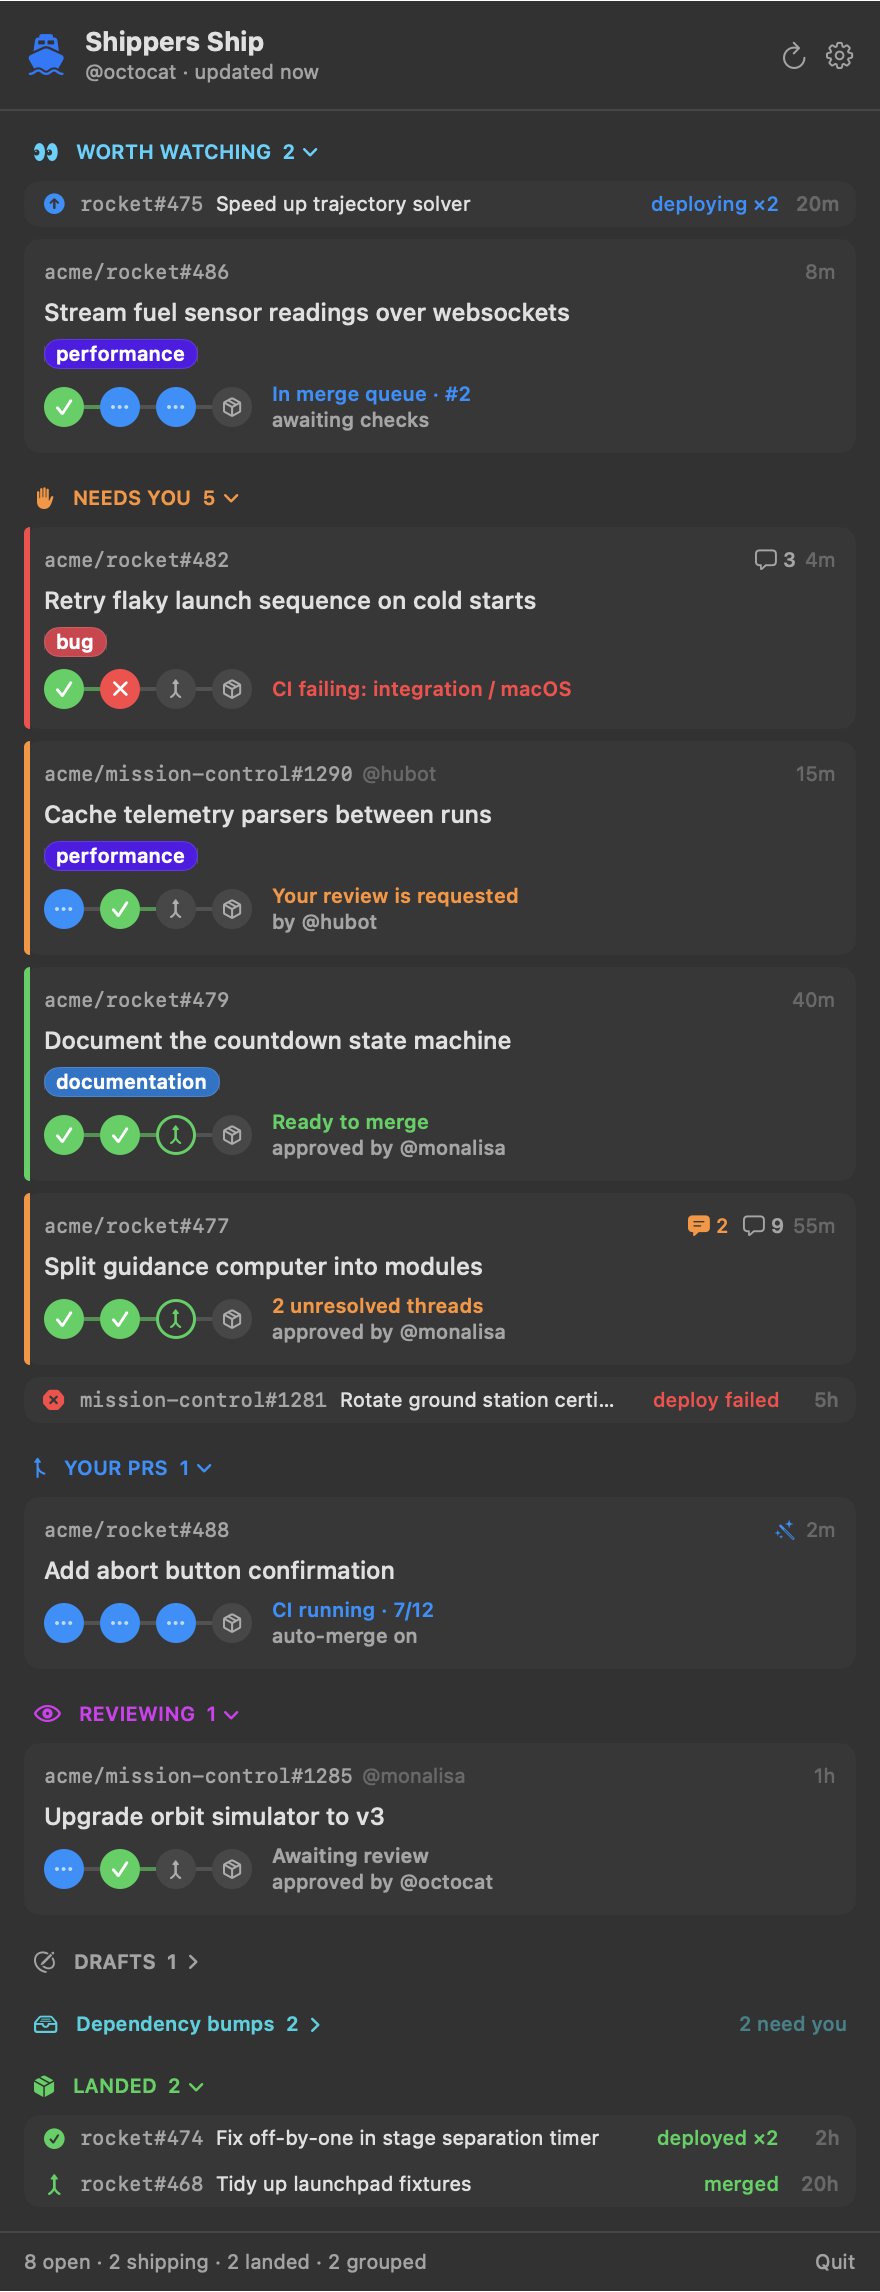
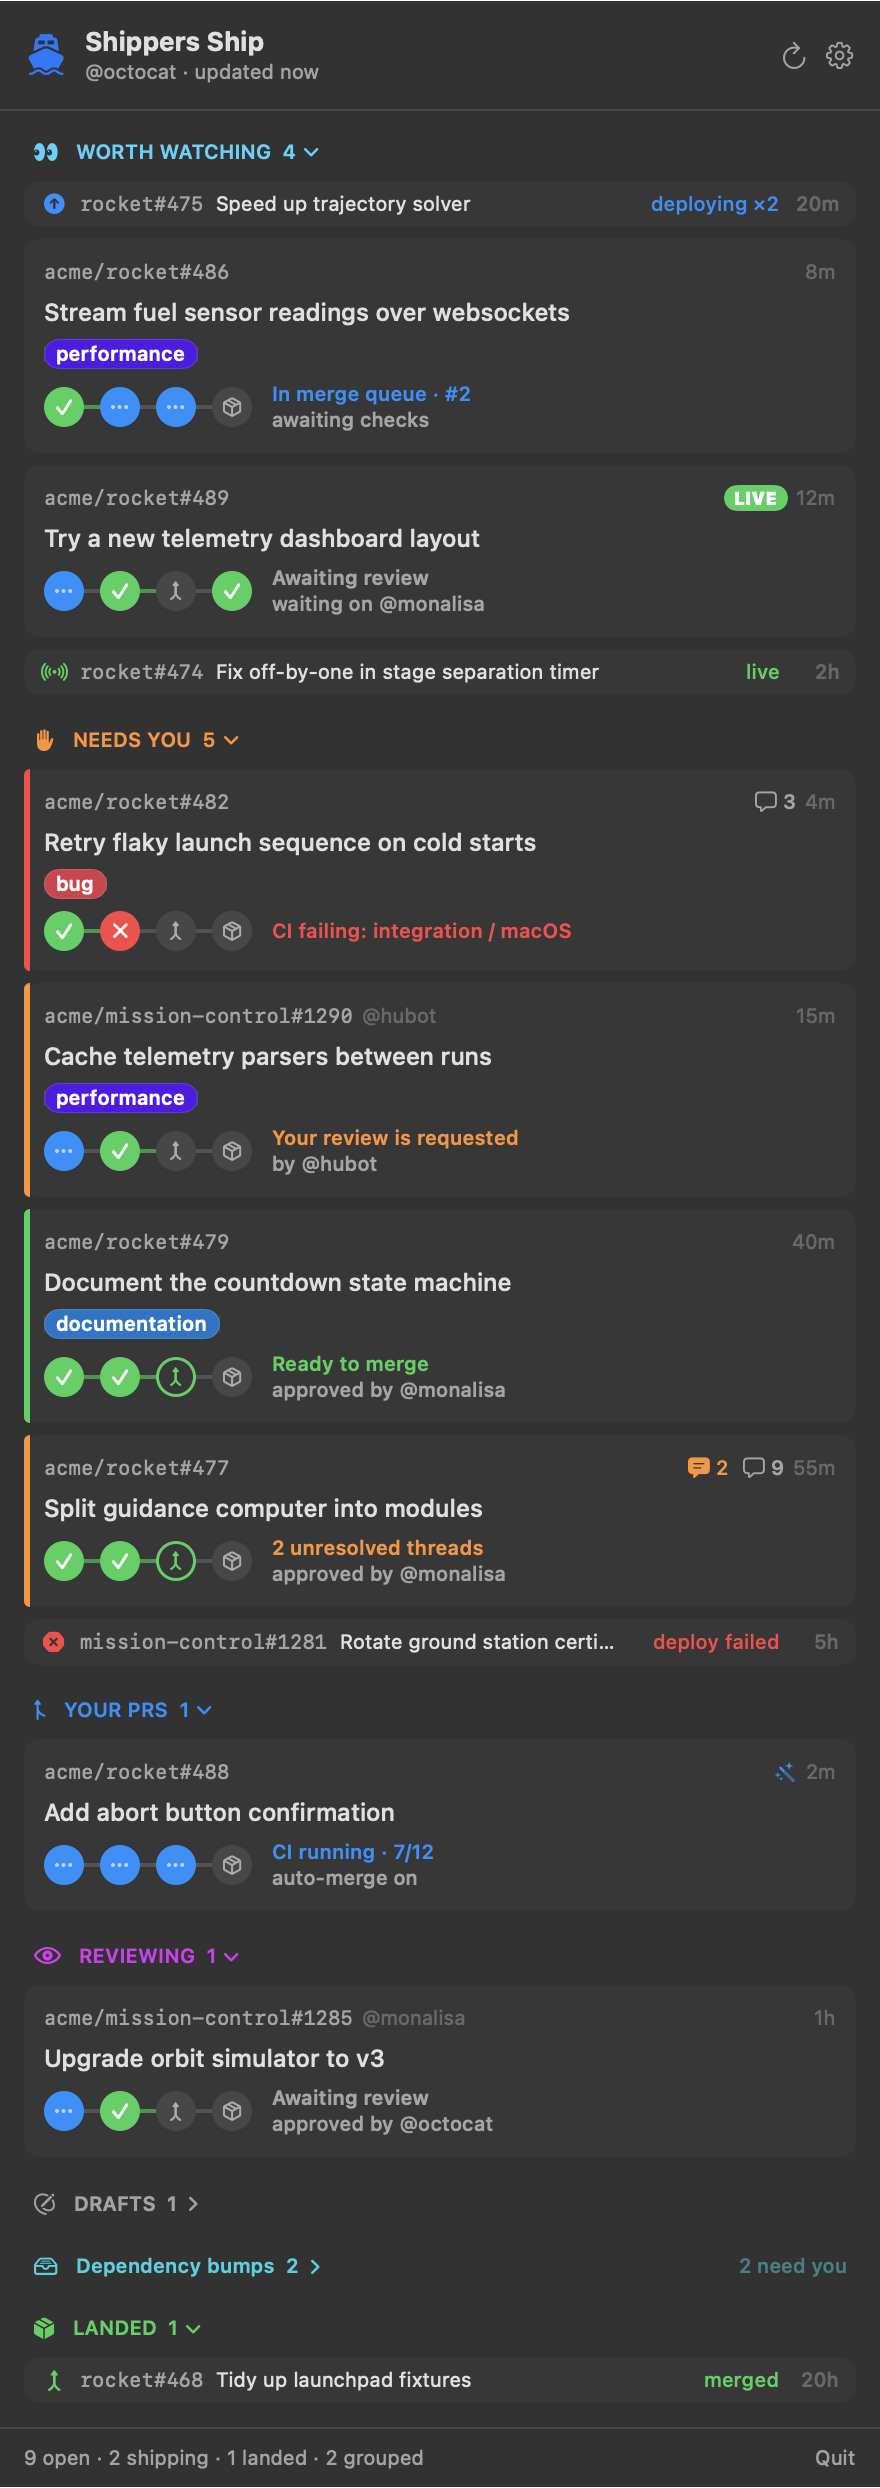
Show PRs that are live in an environment in "Worth watching"
A PR is live when its commit is the newest successful deployment in an
environment. That's worked out from each repo's recent deployments,
because GitHub's ACTIVE state stays set on every deploy for tools that
never mark old ones inactive. Live PRs sort after deploying and queued
ones, newest first, and get a LIVE badge. Live PRs that need you stay
in "Needs you".

diff --git a/Sources/ShipKit/GitHubClient+Live.swift b/Sources/ShipKit/GitHubClient+Live.swift
@@ -1,0 +1,70 @@
+import Foundation
+
+extension GitHubClient {
+    /// For each repo, which commit is live in each environment: the newest deployment whose latest status is SUCCESS.
+    ///
+    /// GitHub's own `ACTIVE` deployment state isn't reliable for this: many deploy tools never mark older
+    /// deployments inactive, so everything they ever shipped stays "active".
+    public func liveCommits(repos: [String]) async throws -> [String: [String: String]] {
+        let repos = repos.filter { $0.split(separator: "/").count == 2 }
+        guard !repos.isEmpty else { return [:] }
+        var variables: [String: Any] = [:]
+        var declarations: [String] = []
+        var fields: [String] = []
+        for (i, repo) in repos.enumerated() {
+            let parts = repo.split(separator: "/", maxSplits: 1).map(String.init)
+            variables["o\(i)"] = parts[0]
+            variables["n\(i)"] = parts[1]
+            declarations.append("$o\(i): String!, $n\(i): String!")
+            fields.append("""
+              r\(i): repository(owner: $o\(i), name: $n\(i)) {
+                deployments(last: 50, orderBy: {field: CREATED_AT, direction: ASC}) {
+                  nodes { environment commitOid createdAt latestStatus { state } }
+                }
+              }
+            """)
+        }
+        let query = "query Live(\(declarations.joined(separator: ", "))) {\n\(fields.joined(separator: "\n"))\n}"
+        let body: [String: LiveRepo?] = try await graphQL(query, variables: variables)
+
+        var result: [String: [String: String]] = [:]
+        for (i, repo) in repos.enumerated() {
+            result[repo] = Self.liveCommits(from: body["r\(i)"]??.deployments.nodes ?? [])
+        }
+        return result
+    }
+
+    /// Environment → commit of the newest successful deployment.
+    static func liveCommits(from nodes: [LiveNode]) -> [String: String] {
+        var live: [String: (commit: String, at: Date)] = [:]
+        for node in nodes where node.latestStatus?.state == "SUCCESS" {
+            guard let env = node.environment, let commit = node.commitOid else { continue }
+            if let current = live[env], current.at > node.createdAt { continue }
+            live[env] = (commit, node.createdAt)
+        }
+        return live.mapValues(\.commit)
+    }
+
+    struct LiveRepo: Decodable {
+        struct Deployments: Decodable { let nodes: [LiveNode] }
+        let deployments: Deployments
+    }
+
+    struct LiveNode: Decodable {
+        struct Status: Decodable { let state: String }
+        let environment: String?
+        let commitOid: String?
+        let createdAt: Date
+        let latestStatus: Status?
+    }
+}
+
+extension PullRequest {
+    /// Environments where this PR's code is what's deployed right now, given each environment's live commit.
+    public func liveEnvironments(liveCommits: [String: String]) -> [String] {
+        relevantDeployments
+            .filter { $0.phase == .succeeded && $0.commitOID != nil && liveCommits[$0.environment] == $0.commitOID }
+            .map(\.environment)
+            .sorted()
+    }
+}

diff --git a/Tests/ShipKitTests/ShipStatusTests.swift b/Tests/ShipKitTests/ShipStatusTests.swift
@@ -146,7 +146,7 @@ func liveSnapshot() async throws {
         let p = s.pipeline
         print(String(format: "%@ %-38@ %@ | R:%@ C:%@ M:%@ D:%@ | %@",
                      s.needsAttention ? "!" : " ", "\(pr.repo)#\(pr.number)" as NSString, s.headline,
-                     "\(p.review)", "\(p.checks)", "\(p.merge)", "\(p.deploy)", pr.relations.map(\.rawValue).sorted().joined(separator: ",")))
+                     "\(p.review)", "\(p.checks)", "\(p.merge)", "\(p.deploy)", pr.relations.map(\.rawValue).sorted().joined(separator: ",") + (pr.isLive ? " LIVE[\(pr.liveEnvironments.joined(separator: ","))]" : "")))
     }
 }
 
@@ -196,4 +196,30 @@ func liveSnapshot() async throws {
     let run = GQL.Context(__typename: "CheckRun", name: "build", status: "COMPLETED", conclusion: "FAILURE",
                           detailsUrl: URL(string: "https://ci.example.com/1"), context: nil, state: nil, targetUrl: nil)
     #expect(run.checkItem.url?.host == "ci.example.com")
+}
+
+@Test func liveIsNewestSuccessfulDeployPerEnvironment() {
+    func node(_ env: String, _ commit: String, _ minutesAgo: Double, _ state: String?) -> GitHubClient.LiveNode {
+        GitHubClient.LiveNode(environment: env, commitOid: commit, createdAt: Date().addingTimeInterval(-minutesAgo * 60),
+                              latestStatus: state.map(GitHubClient.LiveNode.Status.init))
+    }
+    let live = GitHubClient.liveCommits(from: [
+        node("prod", "a", 60, "SUCCESS"),
+        node("prod", "b", 30, "SUCCESS"),   // newest success wins…
+        node("prod", "c", 10, "FAILURE"),   // …failures don't replace it…
+        node("prod", "d", 5, "IN_PROGRESS"), // …nor does a deploy still running
+        node("staging", "e", 20, "SUCCESS"),
+    ])
+    #expect(live == ["prod": "b", "staging": "e"])
+
+    let pr = PullRequest(id: "1", number: 1, title: "t", url: URL(string: "https://github.com/o/r/pull/1")!, repo: "o/r",
+                         author: "me", state: "MERGED", deployments: [
+                             Deployment(environment: "prod", state: "SUCCESS", environmentURL: nil, logURL: nil, updatedAt: .now, commitOID: "b"),
+                             Deployment(environment: "staging", state: "SUCCESS", environmentURL: nil, logURL: nil, updatedAt: .now, commitOID: "old"),
+                         ])
+    #expect(pr.liveEnvironments(liveCommits: live) == ["prod"])
+
+    var livePR = pr
+    livePR.liveEnvironments = ["prod"]
+    #expect(ShipStatus(for: livePR).headline == "Live on prod")
 }

diff --git a/Sources/ShipKit/Models.swift b/Sources/ShipKit/Models.swift
@@ -132,6 +132,8 @@ public struct PullRequest: Identifiable, Hashable, Sendable {
     public let requestedReviewers: [String]
     public let deployments: [Deployment]
     public var relations: Set<Relation>
+    /// Environments where this PR's code is live right now (see `GitHubClient.liveCommits`).
+    public var liveEnvironments: [String]
 
     public init(
         id: String, number: Int, title: String, url: URL, repo: String, author: String,
@@ -142,7 +144,7 @@ public struct PullRequest: Identifiable, Hashable, Sendable {
         checks: ChecksSummary = ChecksSummary(rollup: nil, items: []),
         unresolvedThreads: Int = 0, totalComments: Int = 0, lastCommenter: String? = nil,
         approvals: [String] = [], changesRequestedBy: [String] = [], requestedReviewers: [String] = [],
-        deployments: [Deployment] = [], relations: Set<Relation> = []
+        deployments: [Deployment] = [], relations: Set<Relation> = [], liveEnvironments: [String] = []
     ) {
         self.id = id
         self.number = number
@@ -172,6 +174,14 @@ public struct PullRequest: Identifiable, Hashable, Sendable {
         self.requestedReviewers = requestedReviewers
         self.deployments = deployments
         self.relations = relations
+        self.liveEnvironments = liveEnvironments
+    }
+
+    public var isLive: Bool { !liveEnvironments.isEmpty }
+
+    /// When the newest of its live deployments happened, for ordering.
+    public var liveSince: Date? {
+        relevantDeployments.filter { liveEnvironments.contains($0.environment) }.map(\.updatedAt).max()
     }
 
     public var isMerged: Bool { state == "MERGED" }

diff --git a/Sources/ShippersShip/PRRows.swift b/Sources/ShippersShip/PRRows.swift
@@ -195,7 +195,7 @@ struct CompactPRRow: View {
 
     private var symbol: String {
         switch status.kind {
-        case .deployed: "checkmark.circle.fill"
+        case .deployed: pr.isLive ? "dot.radiowaves.left.and.right" : "checkmark.circle.fill"
         case .deploying: "arrow.up.circle.fill"
         case .deployFailed: "xmark.octagon.fill"
         default: "arrow.triangle.merge"
@@ -205,6 +205,9 @@ struct CompactPRRow: View {
     /// Environments are listed in the tooltip; the row keeps just the state.
     private var shortStatus: String {
         let n = pr.deployments.count > 1 ? " ×\(pr.deployments.count)" : ""
+        if pr.isLive, status.kind == .deployed {
+            return pr.liveEnvironments.count > 1 ? "live ×\(pr.liveEnvironments.count)" : "live"
+        }
         switch status.kind {
         case .deployed: return "deployed\(n)"
         case .deploying: return "deploying\(n)"
@@ -291,6 +294,15 @@ struct Badges: View {
 
     var body: some View {
         HStack(spacing: 6) {
+            if pr.isLive {
+                Text("LIVE")
+                    .font(.system(size: 9, weight: .heavy))
+                    .padding(.horizontal, 5)
+                    .padding(.vertical, 1)
+                    .foregroundStyle(.white)
+                    .background(Capsule().fill(.green))
+                    .help("Live on " + pr.liveEnvironments.joined(separator: ", "))
+            }
             if pr.unresolvedThreads > 0 {
                 Label("\(pr.unresolvedThreads)", systemImage: "text.bubble.fill")
                     .foregroundStyle(.orange)

diff --git a/Sources/ShippersShip/DemoData.swift b/Sources/ShippersShip/DemoData.swift
@@ -72,7 +72,13 @@ enum DemoData {
             PullRequest(id: "D10", number: 474, title: "Fix off-by-one in stage separation timer", url: url("acme/rocket", 474),
                         repo: "acme/rocket", author: viewer, labels: [bug], state: "MERGED", updatedAt: ago(130), mergedAt: ago(130),
                         mergedBy: viewer, checks: checks("SUCCESS", pass: 12), deployments: [prod("SUCCESS", 100), staging],
-                        relations: [.authored, .merged]),
+                        relations: [.authored, .merged], liveEnvironments: ["production"]),
+            PullRequest(id: "D15", number: 489, title: "Try a new telemetry dashboard layout", url: url("acme/rocket", 489),
+                        repo: "acme/rocket", author: viewer, updatedAt: ago(12), reviewDecision: "REVIEW_REQUIRED",
+                        mergeStateStatus: "BLOCKED", checks: checks("SUCCESS", pass: 12),
+                        requestedReviewers: ["monalisa"],
+                        deployments: [Deployment(environment: "staging", state: "SUCCESS", environmentURL: nil, logURL: nil, updatedAt: ago(10))],
+                        relations: [.authored], liveEnvironments: ["staging"]),
             PullRequest(id: "D11", number: 1281, title: "Rotate ground station certificates", url: url("acme/mission-control", 1281),
                         repo: "acme/mission-control", author: "hubot", state: "MERGED", updatedAt: ago(300), mergedAt: ago(300),
                         mergedBy: viewer, checks: checks("SUCCESS", pass: 8), deployments: [prod("FAILURE", 280)],

diff --git a/Sources/ShippersShip/ShipStore.swift b/Sources/ShippersShip/ShipStore.swift
@@ -52,14 +52,19 @@ final class ShipStore {
     private var loop: Task<Void, Never>?
     private var previousKinds: [String: StatusKind]?
 
-    /// Moving on its own: deploying right now first, then in the merge queue by position.
+    /// Worth keeping an eye on: deploying right now, then in the merge queue by position,
+    /// then live in an environment (newest first). Anything that needs you stays in Needs you.
     var watching: [Entry] {
         let deploying = entries.filter { $0.status.kind == .deploying }
         let queued = entries.filter { $0.status.kind == .queued }
             .sorted { ($0.pr.queuePosition ?? .max) < ($1.pr.queuePosition ?? .max) }
-        return deploying + queued
+        let live = entries.filter { isWatching($0) && $0.status.kind != .deploying && $0.status.kind != .queued }
+            .sorted { ($0.pr.liveSince ?? .distantPast) > ($1.pr.liveSince ?? .distantPast) }
+        return deploying + queued + live
     }
-    private func isWatching(_ e: Entry) -> Bool { e.status.kind == .deploying || e.status.kind == .queued }
+    private func isWatching(_ e: Entry) -> Bool {
+        e.status.kind == .deploying || e.status.kind == .queued || (e.pr.isLive && !e.status.needsAttention)
+    }
     var attention: [Entry] { entries.filter(\.status.needsAttention) }
     /// What the menu bar badge counts: "Needs you" plus attention items in groups that aren't quiet.
     var badgeEntries: [Entry] {

diff --git a/Sources/ShipKit/GitHubClient.swift b/Sources/ShipKit/GitHubClient.swift
@@ -3,7 +3,7 @@ import Foundation
 public struct GitHubClient: Sendable {
     public struct Snapshot: Sendable {
         public let viewer: String
-        public let pullRequests: [PullRequest]
+        public internal(set) var pullRequests: [PullRequest]
         public let rateLimitRemaining: Int?
     }
 
@@ -46,7 +46,18 @@ public struct GitHubClient: Sendable {
         async let reviewed = search("\(open) reviewed-by:@me -author:@me")
         async let merged = search("is:pr is:merged involves:@me merged:>=\(sinceString)")
         let results = try await (authored, requested, reviewed, merged)
-        return Self.merge(authored: results.0, requested: results.1, reviewed: results.2, merged: results.3)
+        var snapshot = Self.merge(authored: results.0, requested: results.1, reviewed: results.2, merged: results.3)
+
+        // Work out what's live. Best effort: if this fails, PRs just don't get marked live.
+        let repos = Set(snapshot.pullRequests.filter { !$0.deployments.isEmpty }.map(\.repo)).sorted()
+        if let live = try? await liveCommits(repos: repos) {
+            snapshot.pullRequests = snapshot.pullRequests.map { pr in
+                var pr = pr
+                pr.liveEnvironments = pr.liveEnvironments(liveCommits: live[pr.repo] ?? [:])
+                return pr
+            }
+        }
+        return snapshot
     }
 
     private func search(_ q: String) async throws -> GQL.Body {

diff --git a/Sources/ShippersShip/KeyTest.swift b/Sources/ShippersShip/KeyTest.swift
@@ -55,7 +55,8 @@ enum KeyTest {
 
         print("Section order")
         check(store.sections.first?.id == "watching", "Worth watching is the first section")
-        check(store.watching.map { $0.status.kind } == [.deploying, .queued], "deploying comes before queued")
+        check(store.watching.map(\.pr.number) == [475, 486, 489, 474], "deploying, then queued, then live (newest first)")
+        check(store.watching.contains { $0.pr.isOpen && $0.pr.isLive }, "open PRs live on an environment are worth watching")
         check(!store.landed.contains { $0.status.kind == .deploying }, "deploying PRs aren't also in Landed")
         check(!store.authored.contains { $0.status.kind == .queued }, "queued PRs aren't also in Your PRs")
         let ids = store.sections.map(\.id)

diff --git a/Sources/ShipKit/ShipStatus.swift b/Sources/ShipKit/ShipStatus.swift
@@ -127,6 +127,7 @@ public struct ShipStatus: Hashable, Sendable {
             case .active:
                 return (.deploying, deployingHeadline(pr, now: now), by, .progress, false)
             case .done:
+                if pr.isLive { return (.deployed, "Live on \(pr.liveEnvironments.joined(separator: ", "))", by, .good, false) }
                 return (.deployed, "Deployed to \(envs(pr.deployments))", by, .good, false)
             default:
                 return (.merged, by, nil, .good, false)

diff --git a/README.md b/README.md
@@ -8,7 +8,7 @@ Shippers Ship watches the PRs you **wrote**, the ones **waiting on your review**
 
 The panel is sorted by urgency:
 
-- **Worth watching 👀**: PRs shipping right now. Deploys in progress come first, then PRs in the merge queue by position. Nothing to do but keep an eye on them.
+- **Worth watching 👀**: PRs shipping right now. Deploys in progress (or queued) come first, then PRs in the merge queue by position, then PRs that are **live** in an environment, newest first. Nothing to do but keep an eye on them.
 - **Needs you**: anything waiting on *you*: failing CI, changes requested, conflicts, unresolved threads, review requests, PRs ready to merge, failed deploys. The menu bar icon shows how many.
 - **Your PRs**, **Reviewing**, **Drafts**: everything else that's open.
 - Your **groups** (see below).
@@ -76,6 +76,7 @@ Refresh interval, how far back to show landed PRs, hiding open PRs with no recen
 
 ## Notes
 
+- **Live** means the PR's commit is the newest successful deployment in that environment. GitHub's own `ACTIVE` deployment state isn't used, because many deploy tools never mark older deployments inactive. Live PRs get a **LIVE** badge; if one also needs you (failing CI, say), it stays in Needs you.
 - **Deployments** come from GitHub's Deployments API (deployments of the merge commit, plus "deployed" events on the PR). Repos that deploy some other way show the Deploy stage as n/a.
 - Shippers Ship runs four GitHub searches per refresh (authored, review-requested, reviewed, recently merged), 25 results each. Batching them into one query tends to time out.
 
